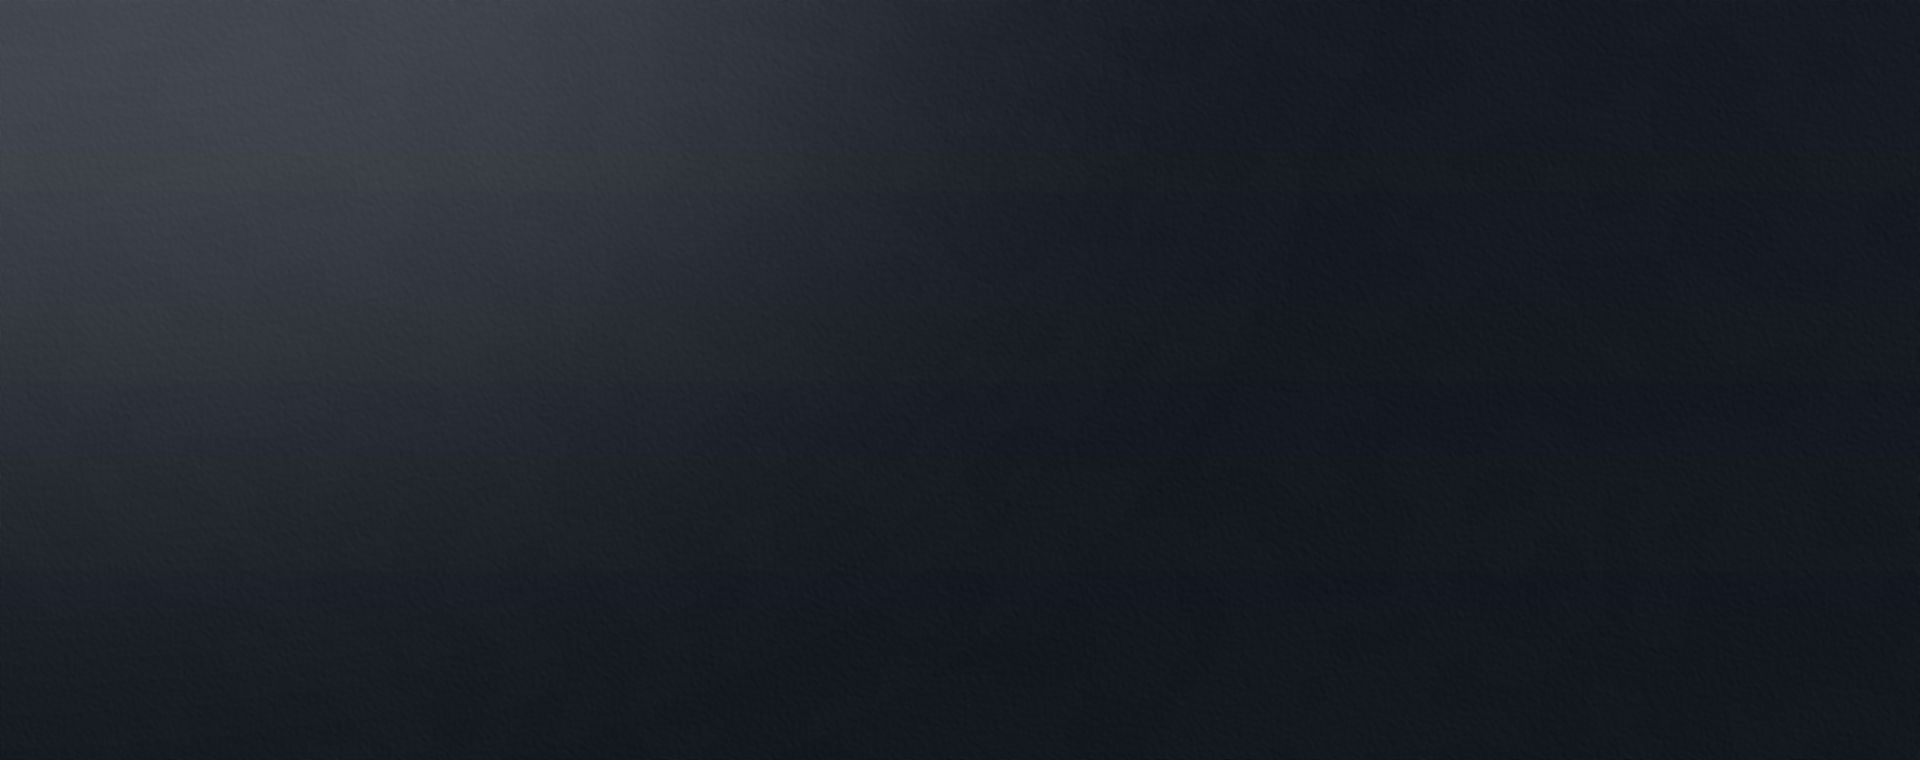
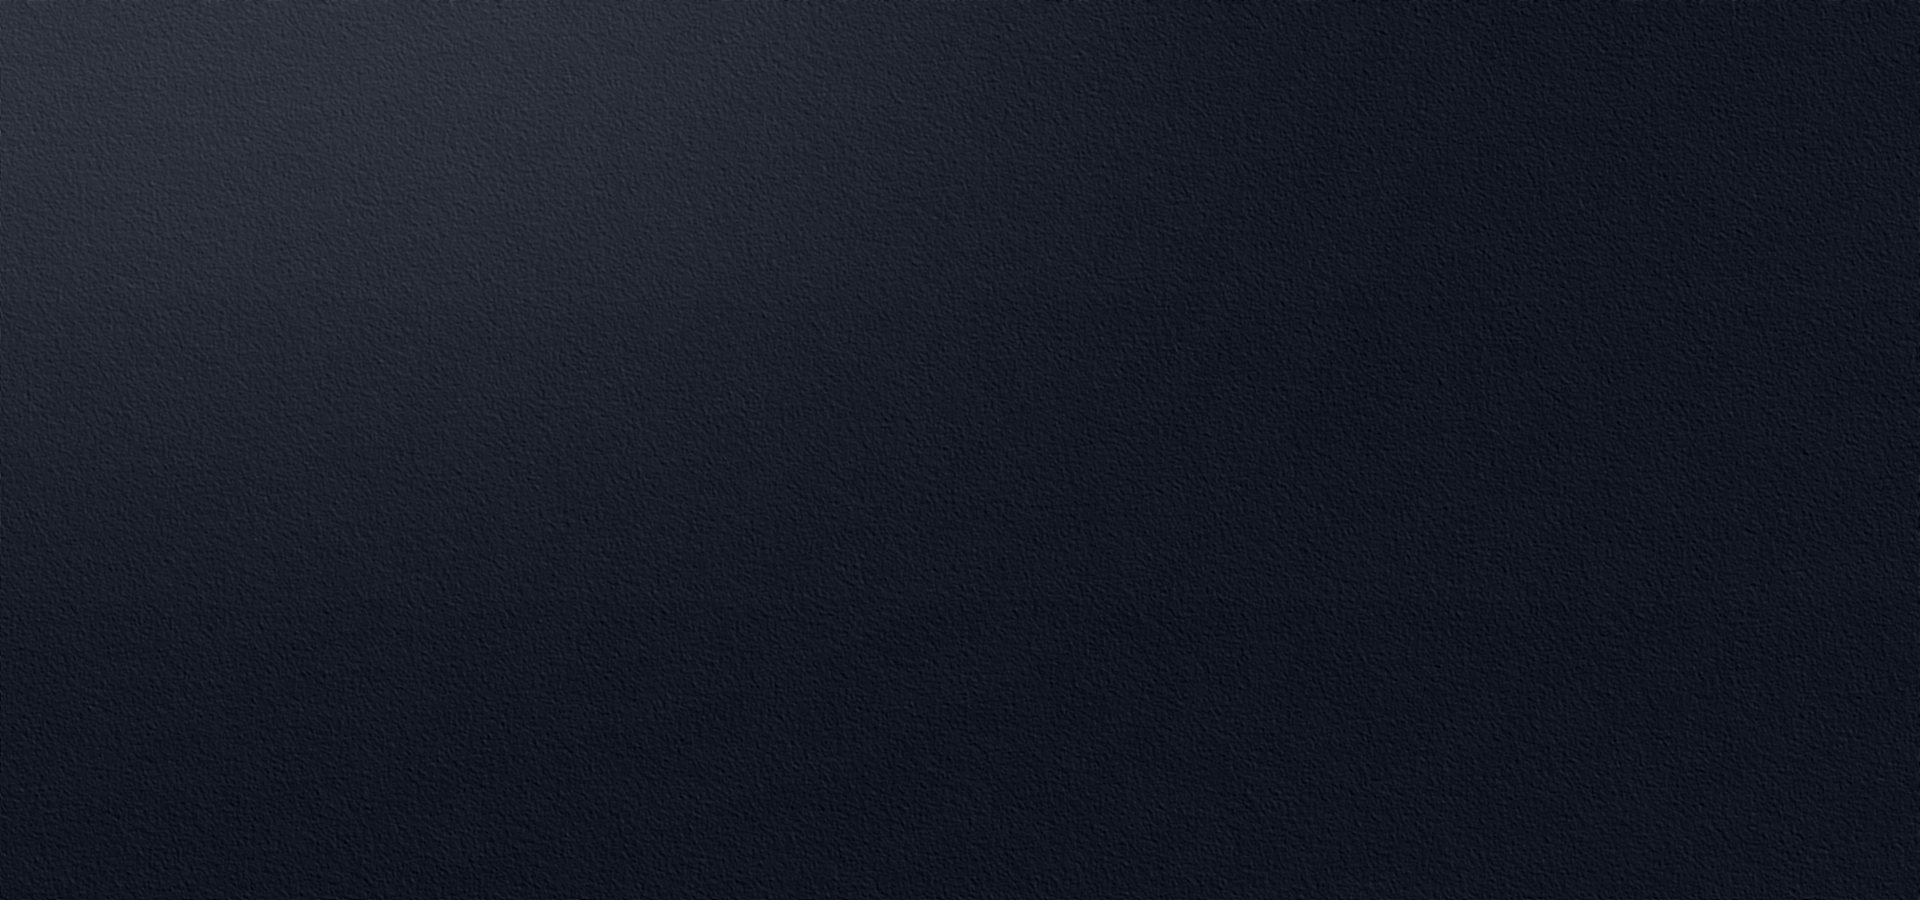
Join-network + footer restyled to navy leather reference mood
Regenerated own procedural leather texture (navy blue-gray, visible
pebble grain, soft top-left light catch); footer lightened to a
distinct navy panel (#181b23) per the reference style comparison.

diff --git a/src/app/globals.css b/src/app/globals.css
@@ -765,7 +765,7 @@ h4 {
 /* ---------- JOIN OUR NETWORK ---------- */
 .join {
   position: relative;
-  background: #15171c url(/assets/join-bg.jpg) center/cover no-repeat;
+  background: #131722 url(/assets/join-bg.jpg) center/cover no-repeat;
   color: #fff;
   text-align: center;
   padding: clamp(72px, 10vh, 110px) 0;
@@ -897,7 +897,7 @@ h4 {
 
 /* ---------- FOOTER ---------- */
 footer.site {
-  background: #101216;
+  background: #181b23; /* navy blue-gray panel, lighter than the join band */
   color: #fff;
   padding: clamp(64px, 9vh, 96px) 0 36px;
 }
